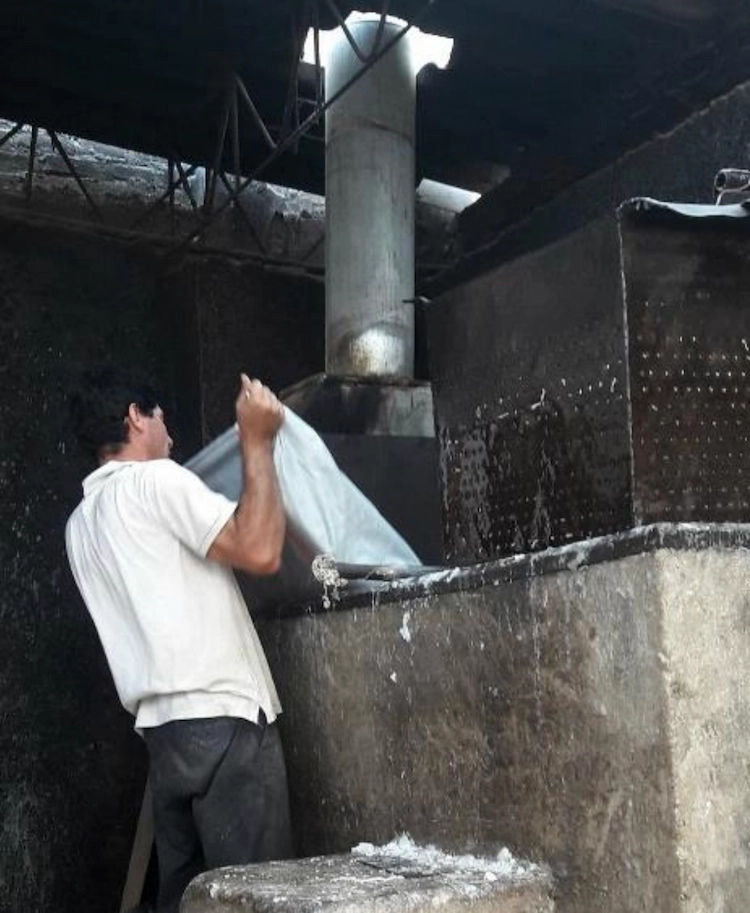
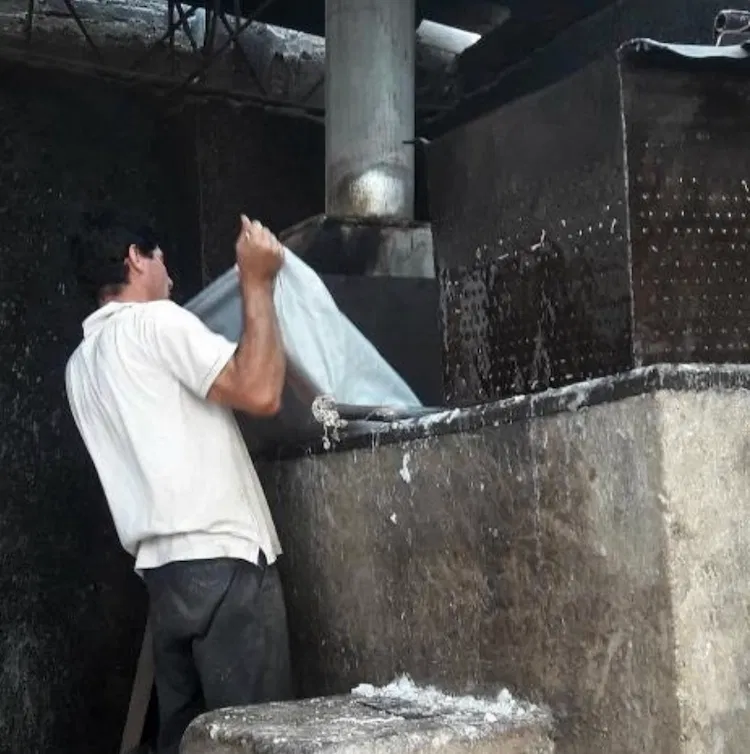
feat: implement quote request system with scroll navigation and optimized image assets

diff --git a/src/components/QuoteForm.tsx b/src/components/QuoteForm.tsx
@@ -1,4 +1,8 @@
-import React, { useState } from "react";
+import React, { useEffect, useState } from "react";
+import {
+    CANDLE_TYPE_EVENT,
+    CANDLE_TYPE_STORAGE_KEY,
+} from "../lib/quoteRedirect";
 
 type CandleType = "grande" | "mediana" | "especial";
 
@@ -50,6 +54,26 @@ export default function QuoteForm() {
     function updateField<K extends keyof FormState>(key: K, value: FormState[K]) {
         setForm((prev) => ({ ...prev, [key]: value }));
     }
+
+    function applyCandleType(value: string | null | undefined) {
+        if (!value) return;
+        const match = CANDLE_OPTIONS.find((option) => option.value === value);
+        if (match) updateField("candleType", match.value);
+    }
+
+    useEffect(() => {
+        const stored = sessionStorage.getItem(CANDLE_TYPE_STORAGE_KEY);
+        if (stored) {
+            applyCandleType(stored);
+            sessionStorage.removeItem(CANDLE_TYPE_STORAGE_KEY);
+        }
+
+        const handler = (event: Event) => {
+            applyCandleType((event as CustomEvent<string>).detail);
+        };
+        window.addEventListener(CANDLE_TYPE_EVENT, handler);
+        return () => window.removeEventListener(CANDLE_TYPE_EVENT, handler);
+    }, []);
 
     async function handleSubmit(event: React.FormEvent<HTMLFormElement>) {
         event.preventDefault();

diff --git a/src/sections/Navbar.tsx b/src/sections/Navbar.tsx
@@ -1,10 +1,11 @@
 import React, { useState } from 'react'
 
 const links = [
-    { label: 'Nosotros', href: '#' },
-    { label: 'Catálogo', href: '#' },
-    { label: 'Clientes', href: '#' },
-    { label: 'Dudas', href: '#' },
+    { label: 'Catálogo', href: '#catalogo' },
+    { label: 'Clientes', href: '#clientes' },
+    { label: 'Nosotros', href: '#nosotros' },
+    { label: 'Presentaciones', href: '#presentaciones' },
+    { label: 'Dudas', href: '#dudas' },
 ]
 
 export default function Navbar() {
@@ -13,7 +14,7 @@ export default function Navbar() {
     return (
         <section className='flex flex-col w-full fixed top-0 bg-white z-50 shadow-sm'>
             <header className='w-full max-w-7xl mx-auto py-2 flex justify-between items-center px-4'>
-                <img src="/velmon-horizontal.png" className='h-9 sm:h-11 object-contain' alt="Velas Montenegro" />
+                <img src="/velmon-horizontal.webp" className='h-9 sm:h-11 object-contain' alt="Velas Montenegro" />
 
                 <nav className='hidden md:flex gap-5 items-center font-medium'>
                     {links.map((link) => (
@@ -21,9 +22,12 @@ export default function Navbar() {
                             {link.label}
                         </a>
                     ))}
-                    <button className='bg-primary text-white px-3 py-1.5 font-medium rounded-sm hover:bg-primary/80 transition-all'>
+                    <a
+                        href='#cotizacion'
+                        className='bg-primary text-white px-3 py-1.5 font-medium rounded-sm hover:bg-primary/80 transition-all'
+                    >
                         Contáctanos
-                    </button>
+                    </a>
                 </nav>
 
                 <button
@@ -53,9 +57,13 @@ export default function Navbar() {
                         {link.label}
                     </a>
                 ))}
-                <button className='bg-primary text-white px-3 py-2 font-medium rounded-sm hover:bg-primary/80 transition-all mt-2 mb-1 w-full'>
+                <a
+                    href='#cotizacion'
+                    className='bg-primary text-white px-3 py-2 font-medium rounded-sm hover:bg-primary/80 transition-all mt-2 mb-1 w-full text-center'
+                    onClick={() => setOpen(false)}
+                >
                     Contáctanos
-                </button>
+                </a>
             </nav>
         </section>
     )

diff --git a/src/lib/quoteRedirect.ts b/src/lib/quoteRedirect.ts
@@ -1,0 +1,22 @@
+export const CANDLE_TYPE_STORAGE_KEY = "velmon:selected-candle-type";
+export const CANDLE_TYPE_EVENT = "velmon:candle-type-selected";
+
+export function initQuoteButtons(root: ParentNode = document) {
+    const buttons = root.querySelectorAll<HTMLElement>("[data-cotizar]");
+
+    buttons.forEach((button) => {
+        button.addEventListener("click", () => {
+            const type = button.dataset.cotizar;
+            if (!type) return;
+
+            sessionStorage.setItem(CANDLE_TYPE_STORAGE_KEY, type);
+            window.dispatchEvent(
+                new CustomEvent(CANDLE_TYPE_EVENT, { detail: type }),
+            );
+
+            document
+                .getElementById("cotizacion")
+                ?.scrollIntoView({ behavior: "smooth", block: "start" });
+        });
+    });
+}

diff --git a/src/styles/global.css b/src/styles/global.css
@@ -18,7 +18,7 @@ h1 {
 }
 
 html {
-    @apply bg-background
+    @apply bg-background scroll-smooth
 }
 
 .no-scrollbar {